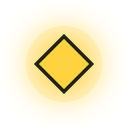
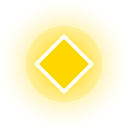
refactor(map): regenerate the marker sprites for the light theme
- read the rim from the token instead of the generator's own copy
- give the dead marker the rim and the bloom, as StatusDot already does

Changed region(s): [[0.1875, 0.1875, 0.8125, 0.8125]]

diff --git a/packages/core/src/map.ts b/packages/core/src/map.ts
@@ -109,8 +109,12 @@ export function clusterCellSize(zoom: number): number {
  * the design system draws, so the silhouettes differ while the "points of
  * light" motif does not change.
  *
- * `glow` follows the design system's rule that the light belongs to the living:
- * a dead or an archived tree is drawn flat.
+ * `glow` marks the states the canvas lifts off the tiles with a bloom of their
+ * own colour. Only an archived tree goes without it, because it is out of the
+ * active map altogether; a dead tree is still a tree somebody has to find and
+ * visit, so it keeps the bloom and the rim like every other live state. This
+ * table and `StatusDot`, which draws the same mark as a view, must agree on
+ * that, and `StatusDot` gates both on `status !== 'archived'`.
  *
  * The colour is deliberately not repeated here. It already has exactly one
  * home, `colorByTrackingStatus`, and a second table carrying it would be a copy
@@ -125,20 +129,20 @@ export const markerShapeByTrackingStatus: Record<
   up_to_date: { shape: 'disc', glow: true },
   due_soon: { shape: 'diamond', glow: true },
   overdue: { shape: 'triangle', glow: true },
-  dead: { shape: 'cross', glow: false },
+  dead: { shape: 'cross', glow: true },
   archived: { shape: 'ring', glow: false },
 };
 
 /**
  * Marker geometry in density independent pixels, taken from the design system's
- * map motif: a 12 dp mark, a 2 dp dark rim so it reads against a pale tile, and
- * a 14 dp glow. The sprite is square and large enough to hold the glow without
+ * map motif: a 12 dp mark, a 2 dp white rim that cuts it out of the tile, and a
+ * 14 dp glow. The sprite is square and large enough to hold the glow without
  * clipping it.
  */
 export const MARKER_GEOMETRY = {
   /** Diameter of the circle every silhouette is inscribed in. */
   markSize: 12,
-  /** Dark rim, `rgba(7, 14, 12, 0.9)` in the design system. */
+  /** The cut-out rim, `2px solid var(--surface-raised)` in the design system. */
   rimWidth: 2,
   /** Blur radius of the glow. */
   glowRadius: 14,
@@ -160,8 +164,18 @@ export const MARKER_GEOMETRY = {
   scales: [1, 2, 3],
 } as const;
 
-/** The rim colour of every marker: the night behind the forest, at 90%. */
-export const MARKER_RIM_COLOR = 'rgba(7, 14, 12, 0.9)';
+/**
+ * The rim of every marker: `surfaceRaised`, opaque, so the mark is cut out of
+ * the map instead of sitting on it.
+ *
+ * The annotation is the point. The sprite generator and `StatusDot` both have
+ * to land on exactly this white, and the generator runs under Node's type
+ * stripping, which cannot follow an extensionless import into `theme` — so the
+ * value cannot simply be read from `colors` here. Typing it as the token
+ * instead makes a drift between the two a compile error rather than a marker
+ * that quietly stops matching the dot beside it in the legend.
+ */
+export const MARKER_RIM_COLOR: (typeof import('./theme').colors)['surfaceRaised'] = '#FFFFFF';
 
 /**
  * How long a signed photograph URL stays valid.
